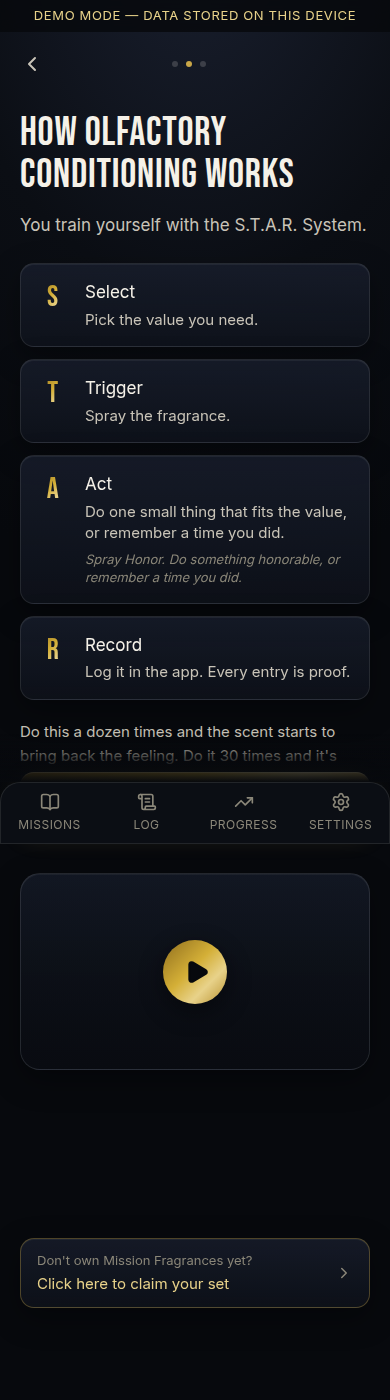
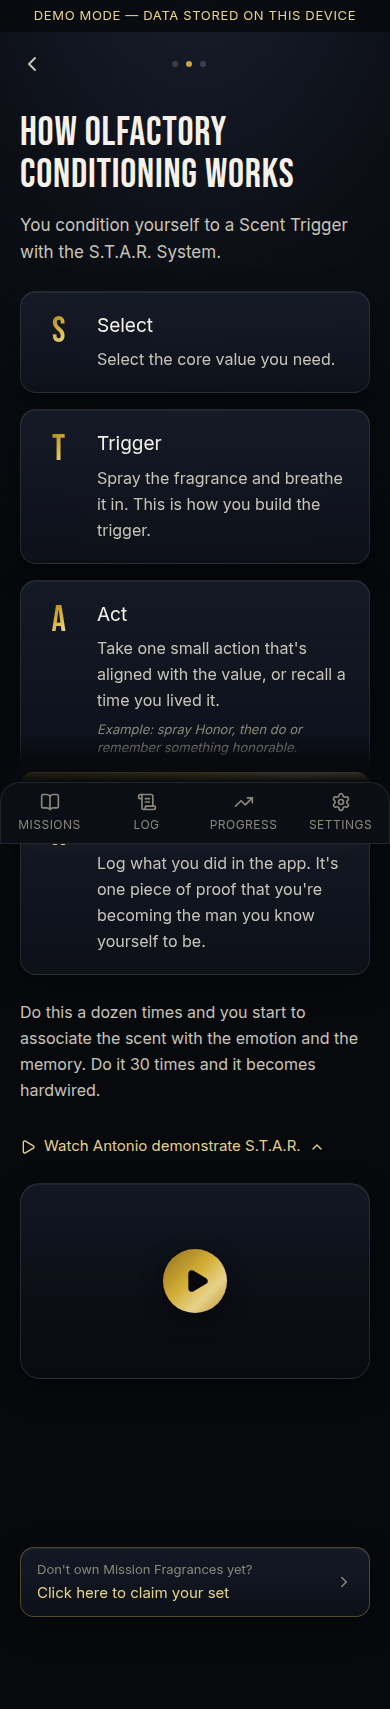
v2.9.0 — Antonio's exact words where he gave them, and the corrected notes
The second pass over his third Loom corrected several notes, and showed that
the last pass cut some of his own wording along with ours. His words are the
spec. The length limits apply to our copy, not his.

- Commitment uses the sales page's real definition: "You fulfill your
  responsibilities through consistent effort and perseverance."
- "Save as an app" moved to the bottom of the Check Your Email code screen,
  which is where he was pointing. It's off the first sign-in screen.
- Every Mission now has his lead-in, "Let's get started with the S.T.A.R.
  System.", above the four steps. The opening statement is optional. He
  asked whether every Mission needs one, since each line costs the reader
  attention, so Missions 3, 19, 20 and 25 now go straight to the steps.
- Mission 1 uses his draft verbatim ("You don't become a better man by
  thinking about it. You become a better man by taking action.") and asks
  "What are you going to do?". Every question now uses his phrasing, "are
  you going to…" instead of "will you…".
- More Than Cologne is back to his kept sentences, his "on command" closing
  line and his gold line. "You condition yourself to a Scent Trigger…" opens
  the S.T.A.R. screen.
- The S.T.A.R. steps use his wording: Select, Act and Record are verbatim,
  and Trigger is "Spray the fragrance and breathe it in. This is how you
  build the trigger." His closing line is restored too. The cards are back
[…]

diff --git a/src/content/missions.ts b/src/content/missions.ts
@@ -18,7 +18,10 @@ import type { Trigger } from "@/lib/data/types";
  * review: too wordy, and it doesn't sound American. So these are hard limits,
  * not suggestions:
  *
- * - Statement: ONE short sentence, two at most. About 10 words.
+ * - Antonio's own words are the spec. Where he gave exact wording, use it
+ *   verbatim — these limits cut OUR copy, never his.
+ * - Statement: optional. Only when it earns the reader's attention. One
+ *   short sentence, two at most.
  * - Action: one sentence. About 10 words.
  * - Question: under 7 words.
  * - Examples: under 10 words. Three of them. Exactly one means no example
@@ -44,8 +47,12 @@ export interface MissionDef {
   /** Stable answer key: lesson_id in lesson_responses is this slug. */
   slug: string;
   title: string;
-  /** Why it matters. One or two short lines. */
-  statement: string;
+  /**
+   * Why it matters, in a line or two. OPTIONAL: every line costs the reader
+   * attention, so a Mission whose title and action already say it all goes
+   * straight to "Let's get started with the S.T.A.R. System."
+   */
+  statement?: string;
   /** What to do. Under 60 seconds. */
   action: string;
   /** The Scent Trigger this Mission recommends. He can wear another. */
@@ -108,10 +115,10 @@ export const MISSIONS: MissionDef[] = [
     number: 1,
     slug: "m1",
     title: "Prove It",
-    statement: "Thinking doesn't make you a better man. Action does.",
-    action: "Do one honorable thing right now.",
+    statement: "You don't become a better man by thinking about it. You become a better man by taking action.",
+    action: "Today's Mission is to get started. Do one honorable thing.",
     recommendedTrigger: "honor",
-    inputLabel: "What will you do?",
+    inputLabel: "What are you going to do?",
     inputPrefix: COMMIT,
     examples: [
       "I commit to telling someone I'm proud of them.",
@@ -140,10 +147,9 @@ export const MISSIONS: MissionDef[] = [
     number: 3,
     slug: "m3",
     title: "Keep Your Word",
-    statement: "Every broken promise tells you your word is cheap.",
     action: "Make one promise to someone. Keep it.",
     recommendedTrigger: "commitment",
-    inputLabel: "What promise will you keep?",
+    inputLabel: "What promise are you going to keep?",
     inputPrefix: COMMIT,
     examples: [
       "I commit to being home for dinner tonight.",
@@ -159,7 +165,7 @@ export const MISSIONS: MissionDef[] = [
     statement: "Someone you love doesn't know how much they matter to you.",
     action: "Tell them exactly what they did and why it mattered.",
     recommendedTrigger: "honor",
-    inputLabel: "Who will you tell?",
+    inputLabel: "Who are you going to tell?",
     inputPrefix: COMMIT,
     examples: [
       "I commit to thanking my wife for all she carries.",
@@ -308,7 +314,7 @@ export const MISSIONS: MissionDef[] = [
     statement: "Most men never write one. You just did.",
     action: "Read it. Pick the line you need today.",
     recommendedTrigger: "honor",
-    inputLabel: "Which line will you live by today?",
+    inputLabel: "Which line are you living by today?",
     inputPrefix: COMMIT,
     examples: [
       "I commit to no white lies today.",
@@ -341,7 +347,7 @@ export const MISSIONS: MissionDef[] = [
     statement: "Your family needs you around for a long time.",
     action: "Do one thing your body will thank you for.",
     recommendedTrigger: "courage",
-    inputLabel: "What will you do?",
+    inputLabel: "What are you going to do?",
     inputPrefix: COMMIT,
     examples: [
       "I commit to booking my physical.",
@@ -357,7 +363,7 @@ export const MISSIONS: MissionDef[] = [
     statement: "Easy jobs feel like progress. They aren't.",
     action: "Start the job you keep dodging. Right now.",
     recommendedTrigger: "commitment",
-    inputLabel: "What will you start?",
+    inputLabel: "What are you going to start?",
     inputPrefix: COMMIT,
     examples: [
       "I commit to starting our will.",
@@ -373,7 +379,7 @@ export const MISSIONS: MissionDef[] = [
     statement: "Money problems grow when you don't look.",
     action: "Open the account you've been avoiding.",
     recommendedTrigger: "courage",
-    inputLabel: "What will you look at?",
+    inputLabel: "What are you going to look at?",
     inputPrefix: COMMIT,
     examples: [
       "I commit to opening my credit card statement.",
@@ -386,7 +392,6 @@ export const MISSIONS: MissionDef[] = [
     number: 19,
     slug: "m19",
     title: "Fix Your Space",
-    statement: "Your house is either helping you or holding you back.",
     action: "Fix one small thing in the next minute.",
     recommendedTrigger: "commitment",
     inputLabel: "What did you fix?",
@@ -402,10 +407,9 @@ export const MISSIONS: MissionDef[] = [
     number: 20,
     slug: "m20",
     title: "Be Useful",
-    statement: "You'll be remembered for how you helped.",
     action: "Help one person with something quick.",
     recommendedTrigger: "honor",
-    inputLabel: "Who will you help?",
+    inputLabel: "Who are you going to help?",
     inputPrefix: COMMIT,
     examples: [
       "I commit to sending my neighbor my mechanic's number.",
@@ -453,7 +457,7 @@ export const MISSIONS: MissionDef[] = [
     statement: "You won't feel 1% better today. Do it anyway.",
     action: "Make one daily habit a little better.",
     recommendedTrigger: "commitment",
-    inputLabel: "What will you improve?",
+    inputLabel: "What are you going to improve?",
     inputPrefix: COMMIT,
     examples: [
       "I commit to charging my phone outside the bedroom.",
@@ -469,7 +473,7 @@ export const MISSIONS: MissionDef[] = [
     statement: "Every yes costs you something.",
     action: "Say no to one thing that doesn't matter.",
     recommendedTrigger: "courage",
-    inputLabel: "What will you say no to?",
+    inputLabel: "What are you saying no to?",
     inputPrefix: COMMIT,
     examples: [
       "I commit to skipping golf for my daughter's game.",
@@ -482,10 +486,9 @@ export const MISSIONS: MissionDef[] = [
     number: 25,
     slug: "m25",
     title: "Cut the Dead Weight",
-    statement: "Some habits give you nothing back.",
-    action: "Pick one and drop it this week.",
+    action: "Pick one habit that gives you nothing back. Drop it this week.",
     recommendedTrigger: "commitment",
-    inputLabel: "What will you drop?",
+    inputLabel: "What are you going to drop?",
     inputPrefix: COMMIT,
     examples: [
       "I commit to no phone in bed.",
@@ -501,7 +504,7 @@ export const MISSIONS: MissionDef[] = [
     statement: "Don't ask what's easy. Ask what he'd do.",
     action: "Think of a decision you're facing. Do what he would do.",
     recommendedTrigger: "honor",
-    inputLabel: "What will you do?",
+    inputLabel: "What are you going to do?",
     inputPrefix: COMMIT,
     examples: [
       "I commit to telling my son I was wrong.",
@@ -533,7 +536,7 @@ export const MISSIONS: MissionDef[] = [
     statement: "Your Proof Log is real. Dates and all.",
     action: "Read it. Pick your best one and do it again, bigger.",
     recommendedTrigger: "courage",
-    inputLabel: "Which one will you repeat?",
+    inputLabel: "Which one are you going to repeat?",
     inputPrefix: COMMIT,
     examples: [
       "I commit to calling my dad again.",
@@ -549,7 +552,7 @@ export const MISSIONS: MissionDef[] = [
     statement: "A code nobody sees is easy to break.",
     action: "Send it to one man who'll hold you to it.",
     recommendedTrigger: "honor",
-    inputLabel: "Who will you send it to?",
+    inputLabel: "Who are you sending it to?",
     inputPrefix: COMMIT,
     examples: [
       "I commit to sending it to my brother.",

diff --git a/src/content/triggers.ts b/src/content/triggers.ts
@@ -34,11 +34,8 @@ export const TRIGGERS = {
     name: "COMMITMENT",
     tagline: "Discipline · Consistency · Follow-Through",
     onboardingWords: "Discipline · Consistency · Follow-Through",
-    // DRAFT — the sales page's own Commitment line was cut off in Antonio's
-    // recording and the site isn't reachable from the build environment.
-    // Replace with the verbatim sentence from missionfragrances.com.
     onboardingLine:
-      "You finish what you start, even after the excitement's gone.",
+      "You fulfill your responsibilities through consistent effort and perseverance.",
     declareHeadline: "WHAT WILL YOU COMMIT TO TODAY?",
     about:
       "Commitment is keeping a promise after the excitement's gone. It doesn't care about your mood. It starts small, one choice a day.",
@@ -58,24 +55,28 @@ export const TRIGGER_ORDER = ["honor", "courage", "commitment"] as const;
  * value works almost as well as doing something new.
  */
 export const STAR_STEPS = [
-  { letter: "S", name: "Select", text: "Pick the value you need." },
-  { letter: "T", name: "Trigger", text: "Spray the fragrance." },
+  { letter: "S", name: "Select", text: "Select the core value you need." },
+  {
+    letter: "T",
+    name: "Trigger",
+    text: "Spray the fragrance and breathe it in. This is how you build the trigger.",
+  },
   {
     letter: "A",
     name: "Act",
-    text: "Do one small thing that fits the value, or remember a time you did.",
-    example: "Spray Honor. Do something honorable, or remember a time you did.",
+    text: "Take one small action that's aligned with the value, or recall a time you lived it.",
+    example: "Example: spray Honor, then do or remember something honorable.",
   },
   {
     letter: "R",
     name: "Record",
-    text: "Log it in the app. Every entry is proof.",
+    text: "Log what you did in the app. It's one piece of proof that you're becoming the man you know yourself to be.",
   },
 ] as const;
 
 /** Under the four steps, wherever they appear. */
 export const STAR_CLOSER =
-  "Do this a dozen times and the scent starts to bring back the feeling. Do it 30 times and it's hardwired.";
+  "Do this a dozen times and you start to associate the scent with the emotion and the memory. Do it 30 times and it becomes hardwired.";
 
 /**
  * Accents match the bottles: Honor = silver, Courage = gold, Commitment = black.

diff --git a/src/components/onboarding/OnboardingScreens.tsx b/src/components/onboarding/OnboardingScreens.tsx
@@ -73,14 +73,16 @@ export default function OnboardingScreens({
         <div className="mt-6 flex flex-1 flex-col">
           <Headline>MORE THAN COLOGNE</Headline>
           <p className="mt-5 text-[17px] leading-relaxed text-ink-1">
-            Mission Fragrances are Scent Triggers: colognes with a job.
+            Mission Fragrances are Scent Triggers: colognes with a job. They
+            work through olfactory conditioning. Scent is the one sense wired
+            straight to memory and emotion.
           </p>
-          <p className="mt-3 text-[17px] leading-relaxed text-ink-1">
-            Scent is wired straight to memory and emotion. Use it to call up
-            the feeling you need, on command.
+          <p className="mt-4 text-[17px] leading-relaxed text-ink-1">
+            Scent Triggers let you pull up, on command, the feelings you need
+            to become the man you know yourself to be.
           </p>
           <p className="font-display text-gold-gradient mt-6 text-[22px] leading-snug">
-            The scent becomes your signal.
+            It becomes the signal for the man you&apos;re about to be.
           </p>
           <MissionVideo
             youtubeId={INTRO_VIDEOS.moreThanFragrance}
@@ -97,7 +99,8 @@ export default function OnboardingScreens({
         <div className="mt-6 flex flex-1 flex-col">
           <Headline>HOW OLFACTORY CONDITIONING WORKS</Headline>
           <p className="mt-4 text-[17px] leading-relaxed text-ink-1">
-            You train yourself with the S.T.A.R. System.
+            You condition yourself to a Scent Trigger with the S.T.A.R.
+            System.
           </p>
           <StarSystem className="mt-6" />
           <MissionVideo

diff --git a/src/app/(app)/missions/[number]/page.tsx b/src/app/(app)/missions/[number]/page.tsx
@@ -271,8 +271,13 @@ function MissionDetailInner({
         {def.title}
       </Headline>
 
-      {/* Why it matters — on its own, before any instruction. */}
-      <p className="mt-4 text-[19px] leading-snug text-ink-0">{def.statement}</p>
+      {/* Why it matters — on its own, before any instruction. Optional:
+          some Missions say it all in the title and the action. */}
+      {def.statement && (
+        <p className="mt-4 text-[19px] leading-snug text-ink-0">
+          {def.statement}
+        </p>
+      )}
 
       {/* The reminder replaces the "spray your Scent Trigger, take a
           breath…" lines that used to be written into every Mission. */}
@@ -289,6 +294,11 @@ function MissionDetailInner({
       </button>
 
       <div className="mt-6 border-t border-[var(--line)]" />
+
+      {/* Antonio's lead-in: the steps below ARE the system. */}
+      <p className="font-display mt-6 text-[20px] leading-snug text-ink-0">
+        Let&apos;s get started with the S.T.A.R. System.
+      </p>
 
       <StarStep letter="S" name="Select">
         <p className="text-[15px] text-ink-1">Select your Scent Trigger.</p>
@@ -308,7 +318,7 @@ function MissionDetailInner({
       <StarStep letter="A" name="Act">
         <p className="text-[17px] leading-snug text-ink-0">{def.action}</p>
         <p className="mt-2 text-[14px] text-ink-2">
-          Takes less than 60 seconds.
+          This should take you less than 60 seconds.
         </p>
         {personalCode && (
           <GlassCard className="mt-4">

diff --git a/src/components/StarSystem.tsx b/src/components/StarSystem.tsx
@@ -17,18 +17,18 @@ export default function StarSystem({
 }) {
   return (
     <div className={className}>
-      <div className="space-y-3">
+      <div className="space-y-4">
         {STAR_STEPS.map((step) => (
           <div
             key={step.letter}
-            className="glass flex items-start gap-4 rounded-[14px] p-4"
+            className="glass flex items-start gap-5 rounded-[16px] px-5 py-5"
           >
-            <span className="font-display text-gold-gradient w-8 shrink-0 pt-0.5 text-center text-[30px] leading-none">
+            <span className="font-display text-gold-gradient w-9 shrink-0 pt-0.5 text-center text-[36px] leading-none">
               {step.letter}
             </span>
             <div className="min-w-0 flex-1">
-              <p className="text-[17px] text-ink-0">{step.name}</p>
-              <p className="mt-1 text-[15px] leading-snug text-ink-1">
+              <p className="text-[19px] text-ink-0">{step.name}</p>
+              <p className="mt-1.5 text-[16px] leading-relaxed text-ink-1">
                 {step.text}
               </p>
               {"example" in step && (
@@ -41,7 +41,7 @@ export default function StarSystem({
         ))}
       </div>
       {closer && (
-        <p className={cn("mt-5 text-[15px] leading-relaxed text-ink-1")}>
+        <p className={cn("mt-6 text-[16px] leading-relaxed text-ink-1")}>
           {STAR_CLOSER}
         </p>
       )}

diff --git a/src/app/verify/page.tsx b/src/app/verify/page.tsx
@@ -3,6 +3,7 @@
 import { useRouter, useSearchParams } from "next/navigation";
 import { Suspense, useCallback, useEffect, useRef, useState } from "react";
 import NavAction from "@/components/NavAction";
+import SaveAsApp from "@/components/SaveAsApp";
 import Button from "@/components/ui/Button";
 import Headline from "@/components/ui/Headline";
 import { createClient } from "@/lib/supabase/client";
@@ -117,6 +118,12 @@ function VerifyInner() {
             </Button>
           </div>
         </form>
+      </div>
+
+      {/* Pinned to the foot of the code screen — the moment he's signing in
+          on his phone is the moment to put the app on his home screen. */}
+      <div className="mt-auto flex justify-center pt-10 text-[13px] text-ink-2">
+        <SaveAsApp />
       </div>
     </main>
   );

diff --git a/src/app/welcome/page.tsx b/src/app/welcome/page.tsx
@@ -3,7 +3,6 @@
 import { useRouter, useSearchParams } from "next/navigation";
 import { Suspense, useState, type FormEvent } from "react";
 import BottleVisual from "@/components/BottleVisual";
-import SaveAsApp from "@/components/SaveAsApp";
 import Wordmark from "@/components/Wordmark";
 import Button from "@/components/ui/Button";
 import Field from "@/components/ui/Field";
@@ -200,8 +199,6 @@ export default function WelcomePage() {
           >
             Terms
           </a>
-          <span aria-hidden>·</span>
-          <SaveAsApp />
         </div>
       </div>
     </main>

diff --git a/docs/HANDOFF.md b/docs/HANDOFF.md
@@ -19,7 +19,7 @@ states. The Vivid Vision is archived; its replacement is the compiled, printable
 
 - Owner: Antonio Centeno (product decisions). Team contact: Yuri.
 - Repo: https://github.com/aiexecutionaccelerator/mfapp (branch `main`)
-- Version: 2.8.0 (every Mission is the S.T.A.R. System)
+- Version: 2.9.0 (every Mission is the S.T.A.R. System)
 
 ## Architecture facts that matter
 
@@ -166,14 +166,12 @@ seed-Missions-1–29 helpers in Settings.
 - Secrets live outside the repo (.env.local, Supabase function secrets).
 
 - **Unconfirmed, waiting on Antonio / Yuri:**
-  - Regular price. The sale price is confirmed at $297 and shows on Claim
-    Your Set. The regular (struck-through) price isn't confirmed — the
-    landing page says $595, Antonio said $597 — so `compareAtPrice` in
-    `src/content/product.ts` is null and nothing is struck through. Set it,
-    and the same compare-at price in Shopify.
-  - Commitment's sales-page definition (`onboardingLine` in
-    `src/content/triggers.ts`) is a DRAFT — the real line was cut off in the
-    recording. Replace it verbatim.
+  - Regular price. $297 sale price is live on Claim Your Set. Antonio said
+    $597 regular ($300 saving) in his third Loom, but an earlier Loom showed
+    the Shopify page at $595 — so `compareAtPrice` in
+    `src/content/product.ts` stays null until that's confirmed. One number
+    turns on "~~$597~~ $297 · YOU SAVE $300"; set the same compare-at price
+    in Shopify.
 
 ## Working conventions
 
